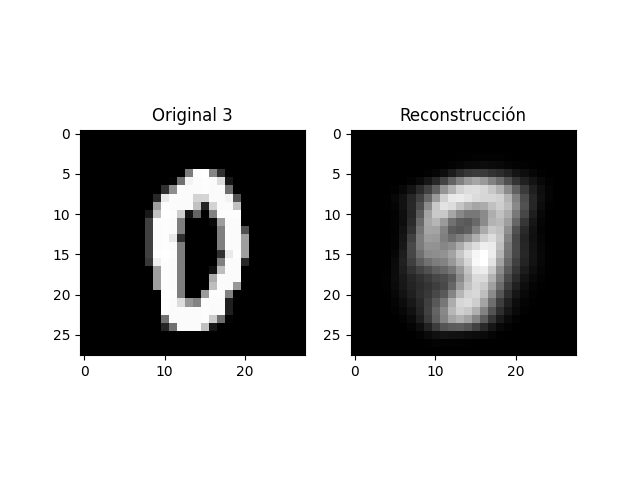
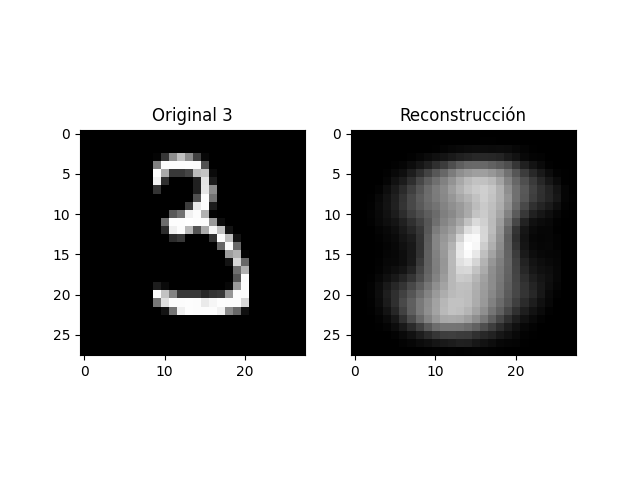
add gan

Changed region(s): [[0.5938, 0.3125, 0.875, 0.7188], [0.2188, 0.3125, 0.4062, 0.6875]]

diff --git a/gan/gan_1.py b/gan/gan_1.py
@@ -1,0 +1,62 @@
+import numpy as np
+
+# Activación
+def sigmoid(x):
+    return 1 / (1 + np.exp(-x))
+
+def sigmoid_deriv(x):
+    s = sigmoid(x)
+    return s * (1 - s)
+
+# Inicialización
+np.random.seed(42)
+
+# Generador
+Wg = np.random.randn(2, 2)
+
+# Discriminador
+Wd = np.random.randn(2, 1)
+
+lr = 0.01
+
+# Datos reales (ejemplo simple)
+real_data = np.array([[1,1],[0.9,0.8],[1.1,1.2]])
+
+for epoch in range(1000):
+
+    # ---------
+    # Train Discriminator
+    # ---------
+    
+    # Datos reales
+    x_real = real_data[np.random.randint(0, len(real_data))]
+    d_real = sigmoid(x_real @ Wd)
+
+    # Datos falsos
+    z = np.random.randn(2)
+    x_fake = sigmoid(z @ Wg)
+    d_fake = sigmoid(x_fake @ Wd)
+
+    # Loss gradiente
+    d_loss = -(np.log(d_real) + np.log(1 - d_fake))
+
+    # Gradientes discriminador
+    grad_d = (d_real - 1) * x_real.reshape(-1,1) + d_fake * x_fake.reshape(-1,1)
+
+    Wd -= lr * grad_d
+
+    # ---------
+    # Train Generator
+    # ---------
+    
+    z = np.random.randn(2)
+    x_fake = sigmoid(z @ Wg)
+    d_fake = sigmoid(x_fake @ Wd)
+
+    # Gradiente generador
+    grad_g = (d_fake - 1) * Wd.T * sigmoid_deriv(x_fake)
+
+    Wg -= lr * np.outer(z, grad_g)
+
+    if epoch % 100 == 0:
+        print(f"Epoch {epoch} | D(real): {d_real} | D(fake): {d_fake}")

diff --git a/vae/vae_3_2_3.py b/vae/vae_3_2_3.py
@@ -6,7 +6,7 @@ np.random.seed(0)
 # Datos
 # =========================
 
-x = np.array([1.0,0.0,1.0])
+x = np.array([0.0,1.0,0.0])
 
 # =========================
 # Inicialización de pesos

diff --git a/vae/vae_mnist_full.py b/vae/vae_mnist_full.py
@@ -198,6 +198,6 @@ def generate_digit(digit):
     plt.savefig(f"digit_{digit}.png")
     plt.close()
 
-generate_digit(3)
+generate_digit(8)
 #generate_digit(7)
 #generate_digit(0)